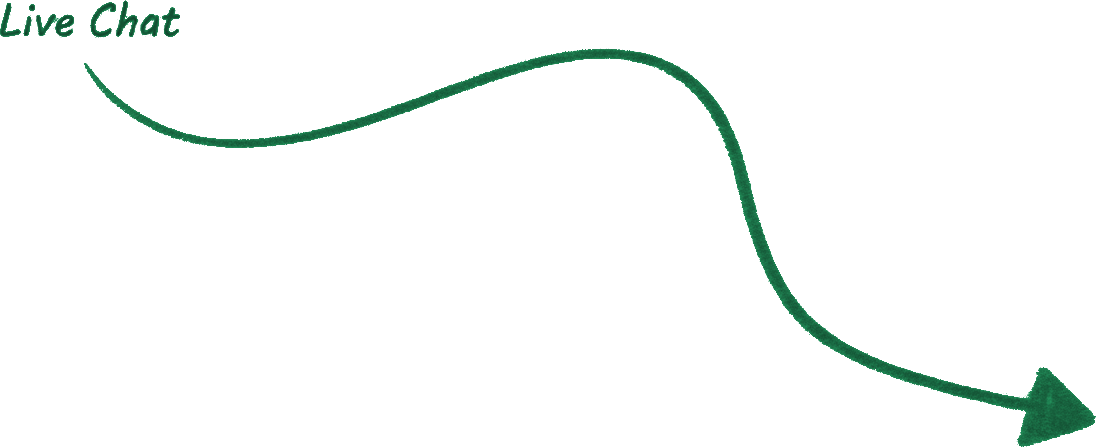
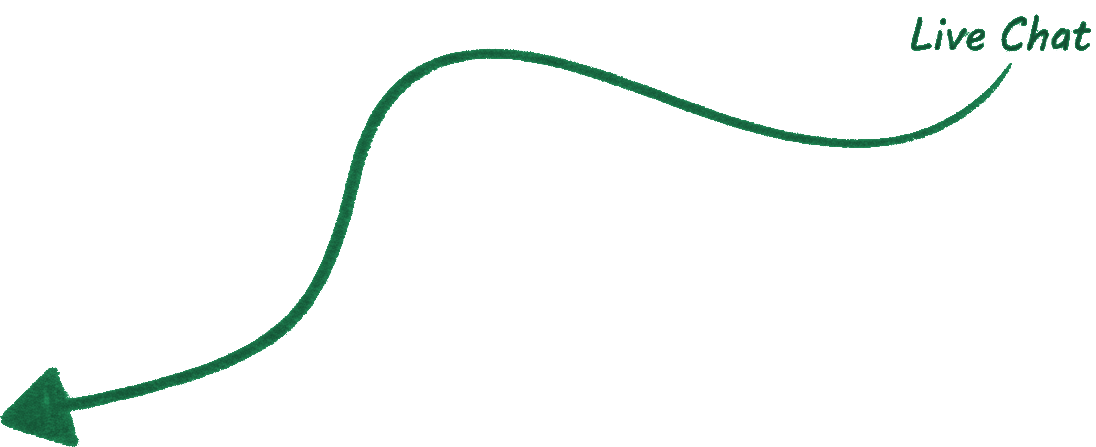
fixes

diff --git a/assets/css/custom.css b/assets/css/custom.css
@@ -274,96 +274,23 @@ footer.footer .footer_links ul.navbar-nav {
     font-size: 0.65rem !important;
 }
 
-/* Rocket.Chat Widget - Dark background for white text visibility */
-div[style*="position"][style*="fixed"] iframe,
+/* Rocket.Chat Widget - Transparent styling and forced light mode */
 iframe[src*="rocket.xana.space"],
 iframe[src*="livechat"] {
-    border: none !important;
-    box-shadow: none !important;
-}
-
-div[style*="position"][style*="fixed"][style*="bottom"] {
-    border: none !important;
-    border-radius: 12px !important;
-    box-shadow: none !important;
-}
-
-/* Make the Rocket.Chat button smaller and add offset from corner */
-.rocketchat-widget[data-state="closed"] {
-    transform: scale(0.7) !important;
-    transform-origin: bottom right !important;
-    margin-right: 20px !important;
-    margin-bottom: 20px !important;
-}
-
-/* Add offset for the opened chat window too */
-.rocketchat-widget {
-    margin-right: 20px !important;
-    margin-bottom: 20px !important;
-}
-
-/* Force dark text colors in the chat interface */
-.rocketchat-widget iframe,
-iframe[src*="rocket.xana.space"],
-iframe[src*="livechat"] {
-    color: #000000 !important;
-}
-
-/* Try to override text colors inside chat */
-.rocketchat-container *,
-.rocketchat-widget * {
-    color: #000000 !important;
-}
-
-/* Force Rocket.Chat widget to always use light mode */
-.rocketchat-wrapper,
-.rocketchat-wrapper *,
-.rocketchat-widget,
-.rocketchat-container {
+    background: transparent !important;
     color-scheme: light !important;
-}
-
-/* Prevent dark mode from affecting the Rocket.Chat widget */
-[data-bs-theme="dark"] .rocketchat-wrapper,
-[data-bs-theme="dark"] .rocketchat-wrapper *,
-[data-bs-theme="dark"] .rocketchat-widget,
-[data-bs-theme="dark"] .rocketchat-container {
-    color-scheme: light !important;
-}
-
-/* Override prefers-color-scheme for the widget context */
-@media (prefers-color-scheme: dark) {
-    .rocketchat-wrapper,
-    .rocketchat-wrapper *,
-    .rocketchat-widget,
-    .rocketchat-container {
-        color-scheme: light !important;
-    }
-}
-
-/* Override iframe internal styles - force black text color */
-.screen__POUUM {
-    --color: #000000 !important;
-    color: #000000 !important;
-}
-
-/* Additional overrides for Rocket.Chat iframe header and content */
-iframe[src*="rocket.xana.space"] .header__Ma8Sh,
-iframe[src*="livechat"] .header__Ma8Sh {
-    --color: #000000 !important;
-    color: #000000 !important;
 }
 
 /* Bottom Arrow Overlay - fixed to viewport, points at Rocket.Chat widget */
 .bottom-arrow-overlay {
     position: fixed; /* Fixed to viewport like Rocket.Chat */
     bottom: 40px; /* More bottom margin */
-    right: 80px; /* More right margin */
-    left: 20px; /* Give it full width minus right margin */
+    left: 80px; /* Position on the left side */
+    right: auto; /* Remove right positioning */
     z-index: 998; /* Just below Rocket.Chat widget */
     pointer-events: none; /* Non-interactive, purely decorative */
     transform: scale(1); /* Default scale */
-    transform-origin: bottom right; /* Arrow tip stays anchored at bottom-right */
+    transform-origin: bottom left; /* Arrow tip stays anchored at bottom-left */
     opacity: 0; /* Hidden by default */
     transition: opacity 0.3s ease-in-out; /* Smooth fade in/out */
 }
@@ -384,8 +311,7 @@ iframe[src*="livechat"] .header__Ma8Sh {
 /* Responsive sizing for large screens only */
 @media (min-width: 769px) {
     .bottom-arrow-overlay {
-        right: 100px; /* More to the left on desktop */
-        left: auto; /* Remove left constraint on desktop */
+        left: 100px; /* More spacing on desktop */
         transform: scale(1.2); /* Larger scale only on desktop */
     }
 }

diff --git a/layouts/partials/base-foot.html b/layouts/partials/base-foot.html
@@ -52,17 +52,13 @@
 	h.parentNode.insertBefore(j, h);
 })(window, document, 'script', 'https://rocket.xana.space/livechat');
 
-// Force light theme with proper API
+// Force light theme with comprehensive font color properties
 RocketChat(function() {
-	// Set complete theme configuration with all color options
 	this.setTheme({
-		color: '#ffffff',              // Header background - white
-		fontColor: '#000000',          // Header text - black
-		iconColor: '#000000',          // Icons - black
-		title: 'Support',
-		offlineTitle: 'Support',
-		guestBubbleBackgroundColor: '#f0f0f0',  // Guest message bubbles
-		agentBubbleBackgroundColor: '#0084ff'   // Agent message bubbles
+		// Title bar
+		color: '#2bb673',
+		fontColor: '#000',
+		iconColor: '#ffffff',
 	});
 });
 </script>
